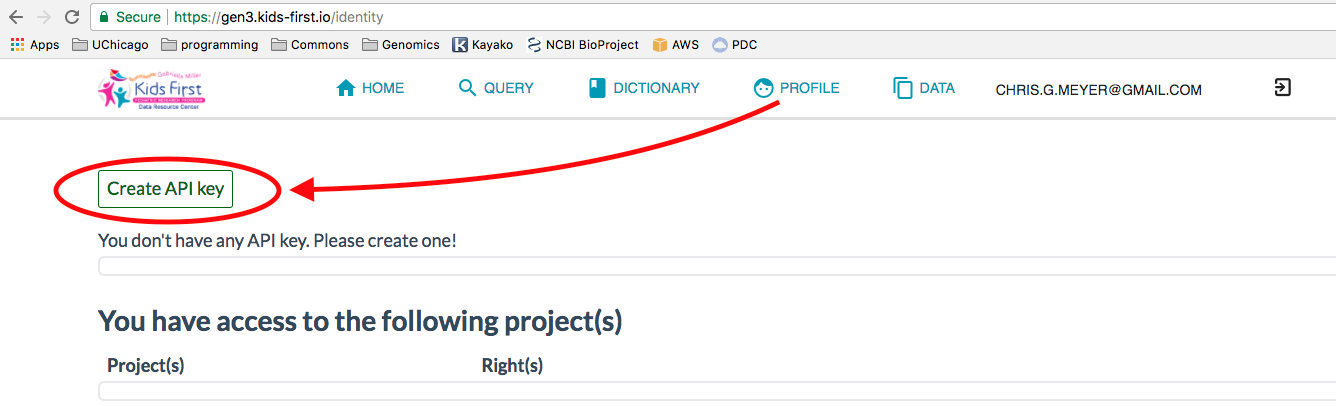
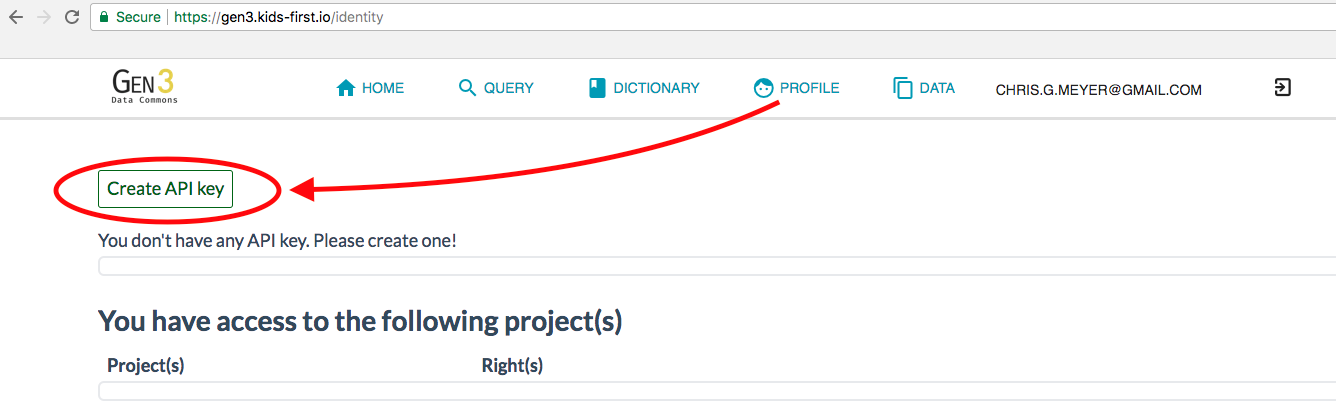
Removed mentions of kids first from docs/images

Changed region(s): [[0.0, 0.0887, 0.5831, 0.1478], [0.0614, 0.1773, 0.1534, 0.266]]

diff --git a/docs/appendices/api-gen3.md b/docs/appendices/api-gen3.md
@@ -36,7 +36,7 @@ key =  { "api_key": "<actual-key>", "key_id": "<a-key-uuid>" }
 import requests
 
 # Pass the API key to the Gen3 API using "requests.post" to receive the access token:
-t = requests.post('https://gen3.kids-first.io/user/credentials/cdis/access_token', json=key)
+t = requests.post('https://gen3.commons.io/user/credentials/cdis/access_token', json=key)
 
 # Now you should see your access_token displayed when you enter:
 t.json()
